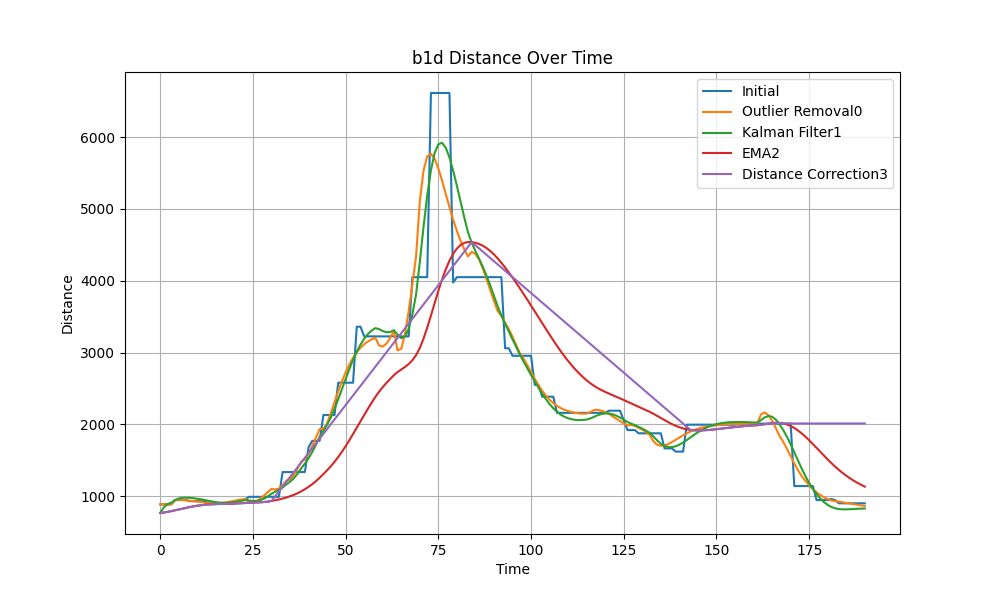
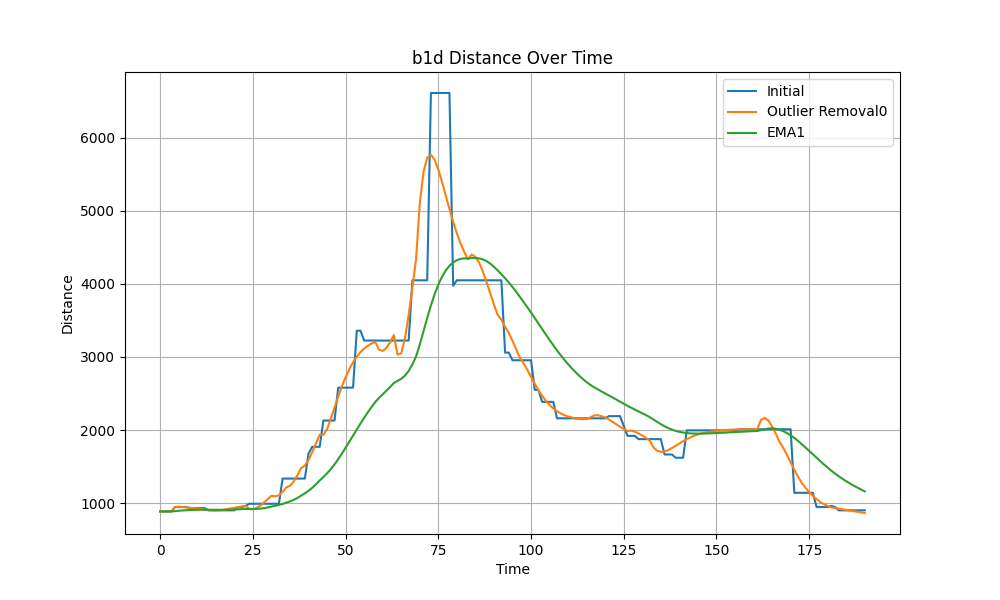
"CM"

Changed region(s): [[0.062, 0.12, 0.899, 0.87]]

diff --git a/kalman_filter_acc_bound.py b/kalman_filter_acc_bound.py
@@ -4,10 +4,10 @@ import numpy as np
 from filterpy.kalman import KalmanFilter
 import pandas as pd
 #from kf_book.mkf_internal import plot_track
-from kalman_plotting import plot_results
+# from kalman_plotting import plot_results
 import matplotlib.pyplot as plt
 
-
+from acceleration_vector import find_acceleration_magnitude
 
 def pos_vel_filter(x, P, R, Q=0., dt=1.):
     """ Returns a KalmanFilter which implements a
@@ -49,12 +49,13 @@ def run(x0=(0.,0.), P=500, R=0, Q=0, dt=1.0, zs=None, make_plot=False, actual=No
     if make_plot:
         print("creating plots")
         s.to_array()
-        plot_results(s.x[:, 0], s.z, s.P)
+        # plot_results(s.x[:, 0], s.z, s.P)
     return s
 
 def kalman_filter(zs, ta, times, smoothing=True):
     '''Takes measurements and timestamps (must be on datetime format). Returns filtered data'''
 
+    times = pd.to_datetime(times)
     time_differences = times.diff()
     average_difference = time_differences.dt.total_seconds().mean()
 
@@ -92,3 +93,21 @@ def kalman_filter(zs, ta, times, smoothing=True):
 
     #this returns a saver object with all the information about the filter
     return s, smooth_xs
+
+def pipelineKalman(df):
+    df = df.copy()  
+    df = find_acceleration_magnitude(df) # adds acceleration vectors to the df
+
+    results = {}
+    for column in df.columns:
+        if column.startswith('b'):
+            zs = df[column].values
+            xs, smooth_xs = kalman_filter(zs, df['ta'].values, df['timestamp'], smoothing=True)
+            results[column] = xs[:, 0]  # store the position estimates
+
+    # Add the results to the dataframe, replacing the original data
+    for column, values in results.items():
+        df[column] = values
+
+    return df
+

diff --git a/final-postprocessing-pipeline.py b/final-postprocessing-pipeline.py
@@ -11,6 +11,7 @@ Uses a pandas df to store the data, and a matplotlib animation to animate the da
 
 from analyze_ftm_data import analyze_ftm_data
 from abs_error import *
+from kalman_filter_acc_bound import pipelineKalman
 
 import pandas as pd
 import numpy as np
@@ -294,7 +295,6 @@ def absError(measurements, title="", gt="jan17-groundtruth.csv", plot=False):
     return filtered_data
 
 def processData(filename, tests):
-    
     # Load initial DF
     initalDf = loadData(os.path.join(os.getcwd(), filename))
     dfs = [initalDf]
@@ -465,10 +465,11 @@ def main():
     # Submit the tests we want to run on our data in order [("testName", testFunction)]
     # ("Distance Correction", distanceCorrection)
     # ("EMA", smoothData)
+    # ("Kalman Filter", pipelineKalman) - doesn't work yet
     # ("Kalman Filter", kalmanFilter)
     # ("Outlier Removal", removeOutliers)
     # ("Plot", plotPlayers)
-    tests = [("Outlier Removal", removeOutliers), ("Kalman Filter", kalmanFilter), ("EMA", smoothData), ("Distance Correction", distanceCorrection)]
+    tests = [("Outlier Removal", removeOutliers), ("EMA", smoothData)]
 
     csv_filename = "4beaconv1.csv"
     dfs = processData(csv_filename,tests)
